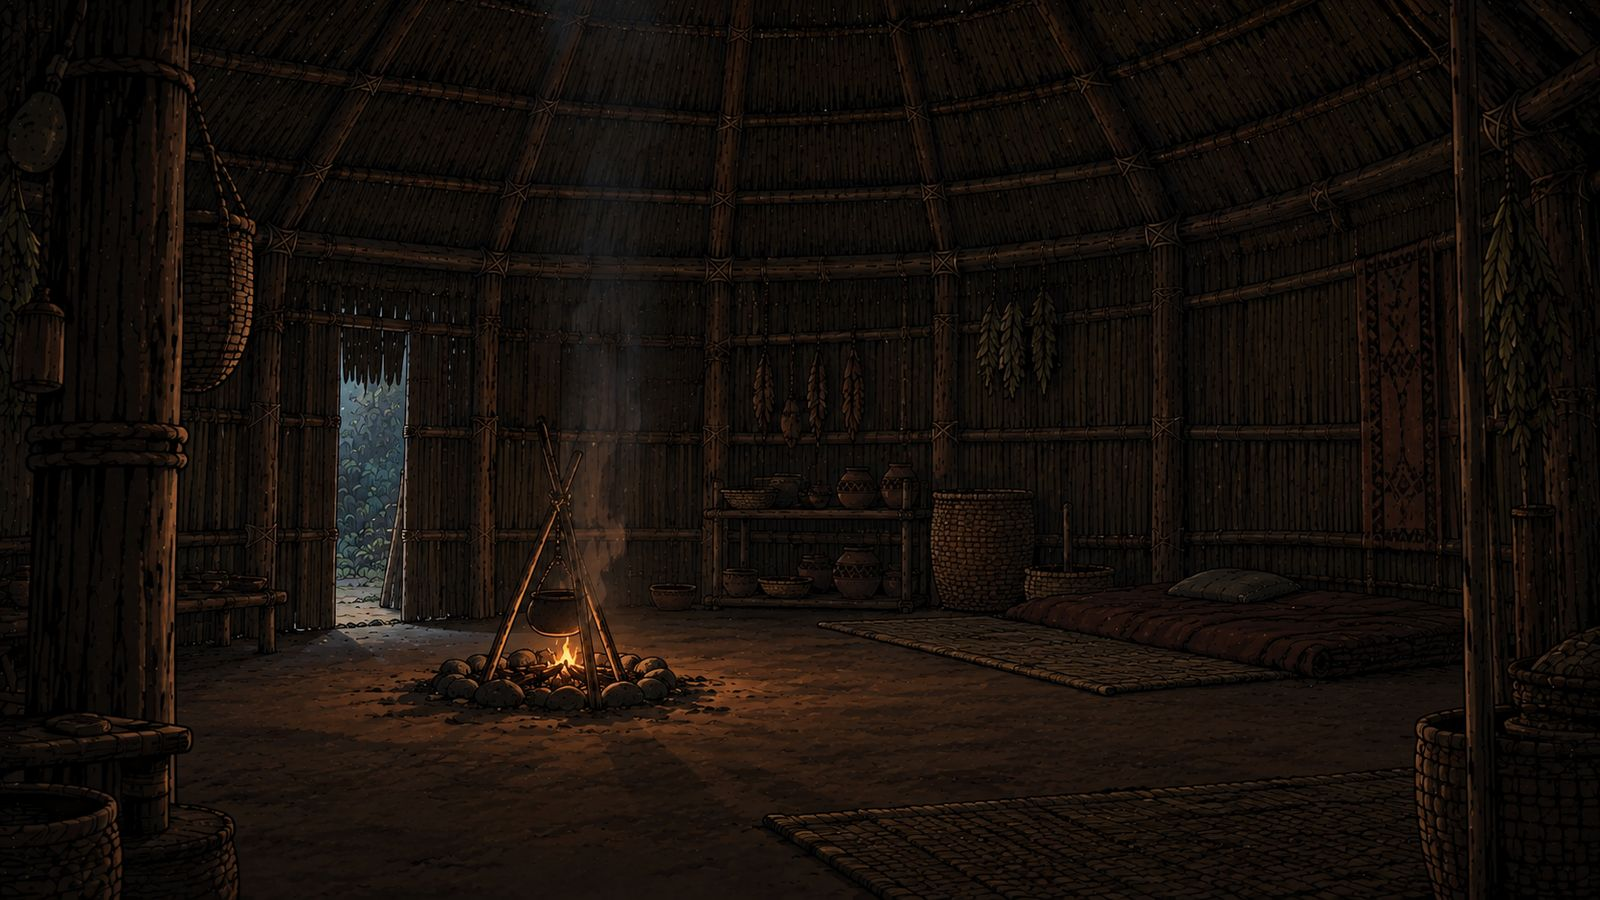
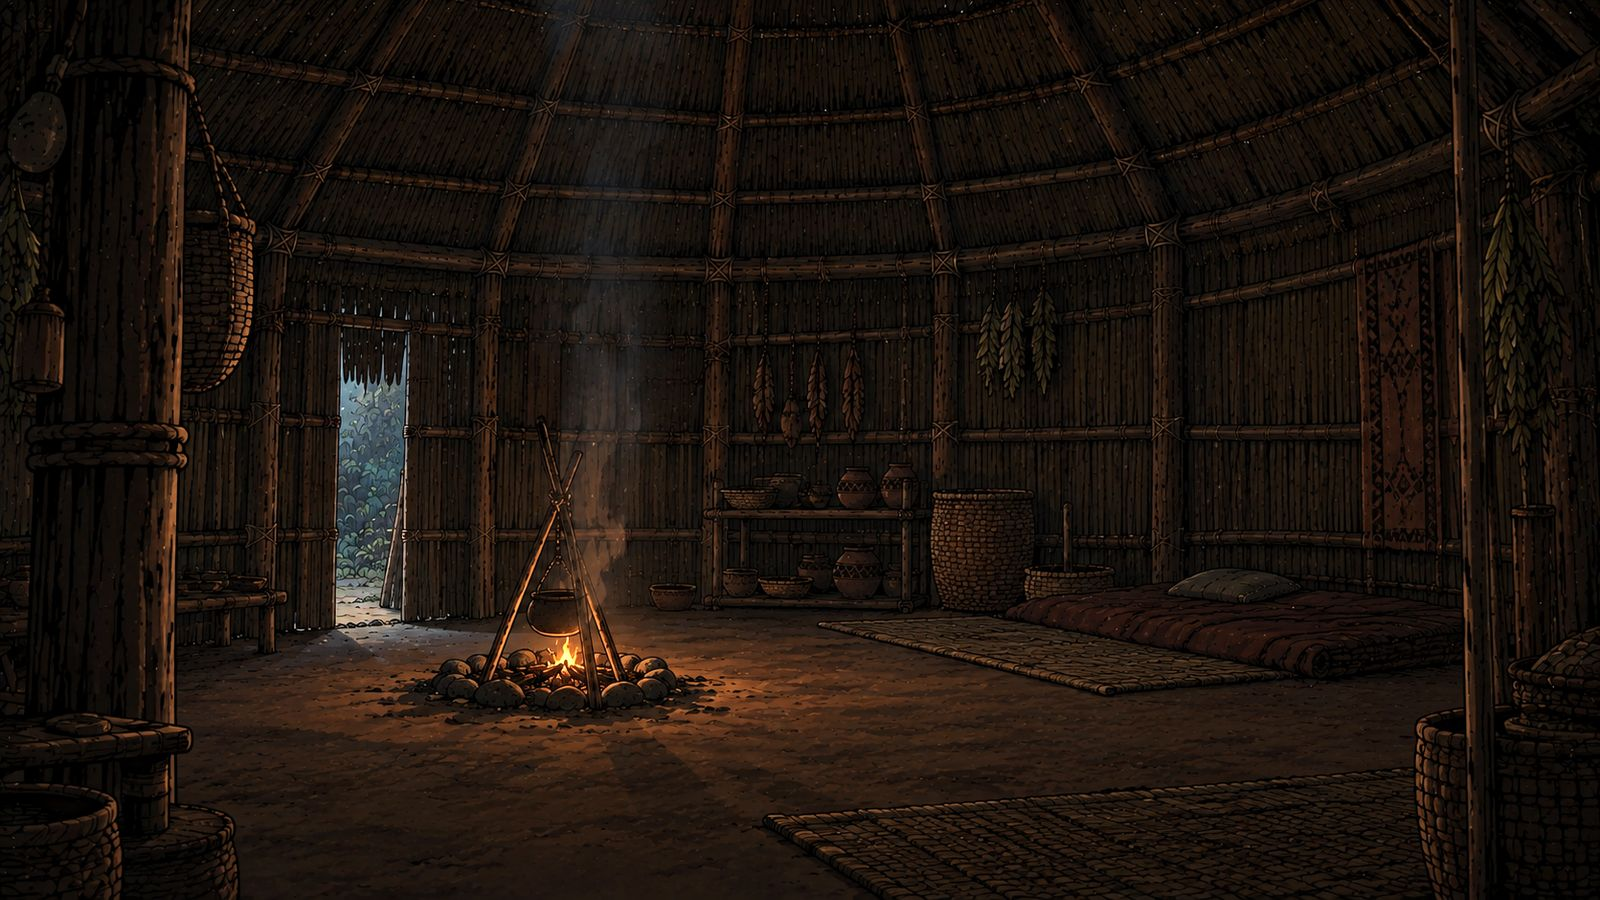
Potira no chão, encostada no tronco, e a oca Wanadi mais clara
Nas noites 4 e 5, Potira senta no chão, à esquerda do pajé (para quem
olha), com as costas no tronco, virada para o fogo. Quando ela está na
fogueira, o pajé muda de lugar no tronco (novo campo "posicao_com").
A oca Wanadi (dia e noite) sai 30% mais clara do conversor.

diff --git a/Jogo/dados/noites.py b/Jogo/dados/noites.py
@@ -23,6 +23,8 @@
 #       "escala"       o tamanho (1 = o tamanho de quem fala)
 #       "espelhar"     True: vira a pessoa para o outro lado (o pajé olha para o fogo)
 #       "atras"        True: senta atrás dos outros (é desenhada antes, os outros na frente)
+#       "posicao_com"  {"Potira": (x, y)}: outra posição, quando essa pessoa está na fogueira
+#                      nesta noite (ex.: o pajé chega para o lado quando Potira senta perto)
 #       "de_fora"      True: só aparece se o jogador a deixou entrar (e se não está no tapiri,
 #                      porque quem está no tapiri fica lá, isolado)
 #       "uma_vez"      True: depois da conversa ela sai da fogueira (foi dormir)
@@ -150,9 +152,10 @@ ZONAS_YARA_NOITE_3[1] = {"pergunta": "Olhos",
 
 # --- Noite 4: Potira, a que você conhece ---
 # Potira é sã: o olho está cansado, a boca seca de sede. Nada bate com a tábua.
-# Na fogueira, ela senta à direita do pajé, um pouco atrás dele e menor (mais longe),
-# virada para o fogo.
-POSICAO_POTIRA, ESCALA_POTIRA = (1530, 478), 0.46
+# Na fogueira, ela senta no chão, à esquerda do pajé (para quem olha), com as costas
+# encostadas no tronco, virada para o fogo. Com ela ali, o pajé chega mais para a esquerda.
+POSICAO_POTIRA, ESCALA_POTIRA = (1275, 612), 0.5
+POSICAO_PAJE_COM_POTIRA = (1475, 560)
 
 ZONAS_POTIRA = [
     {"pergunta": "Testa",
@@ -413,6 +416,7 @@ NOITES = {
             # que ele viu nascer.
             "Pajé": {
                 "imagem": "paje_sentado", "posicao": POSICAO_PAJE, "escala": ESCALA_PAJE, "espelhar": True,
+                "posicao_com": {"Potira": POSICAO_PAJE_COM_POTIRA},
                 "passos": [
                     {"tipo": "visitante", "visitante": "paje"},
                     {"tipo": "fala", "quem": "Pajé", "texto": "Sente. Hoje o fogo está quieto."},
@@ -468,10 +472,10 @@ NOITES = {
                 ],
             },
 
-            # Potira, se entrou: sentada à direita do pajé, um pouco atrás dele.
+            # Potira, se entrou: no chão, à esquerda do pajé, encostada no tronco.
             "Potira": {
                 "imagem": "potira_sentada", "posicao": POSICAO_POTIRA, "escala": ESCALA_POTIRA,
-                "espelhar": True, "atras": True,
+                "espelhar": True,
                 "de_fora": True, "uma_vez": True, "obrigatorio": True,
                 "passos": [
                     {"tipo": "visitante", "visitante": "potira"},
@@ -509,6 +513,7 @@ NOITES = {
             # O pajé só diz como estão os deuses (dados/dias.py, DEUSES).
             "Pajé": {
                 "imagem": "paje_sentado", "posicao": POSICAO_PAJE, "escala": ESCALA_PAJE, "espelhar": True,
+                "posicao_com": {"Potira": POSICAO_PAJE_COM_POTIRA},
                 "passos": [
                     {"tipo": "visitante", "visitante": "paje"},
                     DEUSES_FELIZES,
@@ -550,7 +555,7 @@ NOITES = {
             # Potira: a conversa curta, como na noite 4. Não é obrigatório falar com ela.
             "Potira": {
                 "imagem": "potira_sentada", "posicao": POSICAO_POTIRA, "escala": ESCALA_POTIRA,
-                "espelhar": True, "atras": True,
+                "espelhar": True,
                 "de_fora": True, "uma_vez": True,
                 "passos": [
                     {"tipo": "visitante", "visitante": "potira"},

diff --git a/Jogo/ferramentas/converter_arte.py b/Jogo/ferramentas/converter_arte.py
@@ -11,7 +11,7 @@
 # Chegou arte nova? Acrescente uma linha na lista CENARIOS (ou PERSONAGENS) abaixo e rode de novo.
 
 import os
-from PIL import Image, ImageChops, ImageDraw, ImageFilter
+from PIL import Image, ImageChops, ImageDraw, ImageEnhance, ImageFilter
 
 # Pasta Jogo/ (este arquivo está em Jogo/ferramentas/)
 PASTA_JOGO = os.path.dirname(os.path.dirname(os.path.abspath(__file__)))
@@ -41,6 +41,12 @@ CENARIOS = [
     # O tapiri por dentro: uma imagem só, para o dia e a noite.
     ("Ocas/Tabiri.png", "cenarios/cenario-tapiri.jpg"),
 ]
+
+# Cenários que saem mais claros que o original (1 = igual; 1.3 = 30% mais claro).
+CLAREAR = {
+    "cenarios/cenario-oca3-dia.jpg": 1.3,     # a oca Wanadi, onde Potira fica
+    "cenarios/cenario-oca3-noite.jpg": 1.3,
+}
 
 # CORTE PADRÃO DAS PESSOAS: do topo da cabeça até o meio das coxas, sempre com esta
 # altura. Assim todo mundo aparece na mesma escala, com a cabeça no mesmo lugar da tela.
@@ -130,6 +136,8 @@ def converter_cenario(origem, destino):
     os.makedirs(os.path.dirname(caminho_destino), exist_ok=True)
     imagem = Image.open(caminho_origem).convert("RGB")
     imagem = ajustar_ao_tamanho(imagem, TAMANHO_CENARIO)
+    if destino in CLAREAR:
+        imagem = ImageEnhance.Brightness(imagem).enhance(CLAREAR[destino])
     imagem.save(caminho_destino, quality=QUALIDADE_JPG, optimize=True, progressive=True)
     tamanho_kb = os.path.getsize(caminho_destino) // 1024
     print("  ok  %-22s -> %-36s %4d KB" % (origem, destino, tamanho_kb))

diff --git a/Jogo/testes/teste_fluxo.py b/Jogo/testes/teste_fluxo.py
@@ -1072,8 +1072,10 @@ def testar_dia4_e_noite4(jogo):
 
     # A fogueira: pajé, Mbaé e Potira. Os dois de fora são obrigatórios.
     assert dia.titulo == "Noite 4" and dia.modo == "fogueira" and dia.energia == 1
-    # Potira senta atrás do pajé: é desenhada primeiro.
-    assert [p.nome for p in dia.na_fogueira] == ["Potira", "Pajé", "Mbaé"]
+    # Potira senta no chão, à esquerda do pajé, e o pajé chega para o lado.
+    assert [p.nome for p in dia.na_fogueira] == ["Pajé", "Mbaé", "Potira"]
+    from dados.noites import POSICAO_PAJE_COM_POTIRA
+    assert dia.na_fogueira[0].rect.midbottom[0] == POSICAO_PAJE_COM_POTIRA[0]
     assert not dia.botao_dormir.visivel, "a seta de ir dormir só aparece sem energia"
     rodar(jogo, 40)
     capturar(jogo, "33-noite4-fogueira")
@@ -1190,7 +1192,7 @@ def testar_dia5_e_noite5(jogo):
     dia = jogo.cenas.atual
     assert len(estado.tabua) == 3, "no Dia 5 o pajé não conta sinal novo"
     assert dia.titulo == "Noite 5" and dia.modo == "fogueira"
-    assert [p.nome for p in dia.na_fogueira] == ["Potira", "Pajé", "Mbaé", "Tamandaré-mirim"]
+    assert [p.nome for p in dia.na_fogueira] == ["Pajé", "Mbaé", "Potira", "Tamandaré-mirim"]
     rodar(jogo, 40)
     capturar(jogo, "37-noite5-fogueira")
     clicar_pessoa(jogo, "Pajé")

diff --git a/Jogo/cenas/dia.py b/Jogo/cenas/dia.py
@@ -285,8 +285,18 @@ class Dia(Cena):
         pessoas = [(nome, pessoa) for nome, pessoa in self._pessoas_da_noite()
                    if not (pessoa.get("uma_vez") and nome in self.conversados)]
         pessoas.sort(key=lambda item: 0 if item[1].get("atras") else 1)
+        # "posicao_com": a pessoa muda de lugar se outra está na fogueira nesta noite (mesmo que
+        # já tenha ido dormir: o lugar não muda no meio da noite).
+        da_noite = [nome for nome, _ in self._pessoas_da_noite()]
+
+        def posicao(pessoa):
+            for outro, lugar in pessoa.get("posicao_com", {}).items():
+                if outro in da_noite:
+                    return lugar
+            return pessoa["posicao"]
+
         self.na_fogueira = [
-            PessoaNoCenario(nome, pessoa["imagem"], pessoa["posicao"], pessoa["escala"], "noite",
+            PessoaNoCenario(nome, pessoa["imagem"], posicao(pessoa), pessoa["escala"], "noite",
                             espelhar=pessoa.get("espelhar", False))
             for nome, pessoa in pessoas]
         # A seta "Ir dormir" só aparece depois de falar com quem é obrigatório (quem é de fora:
